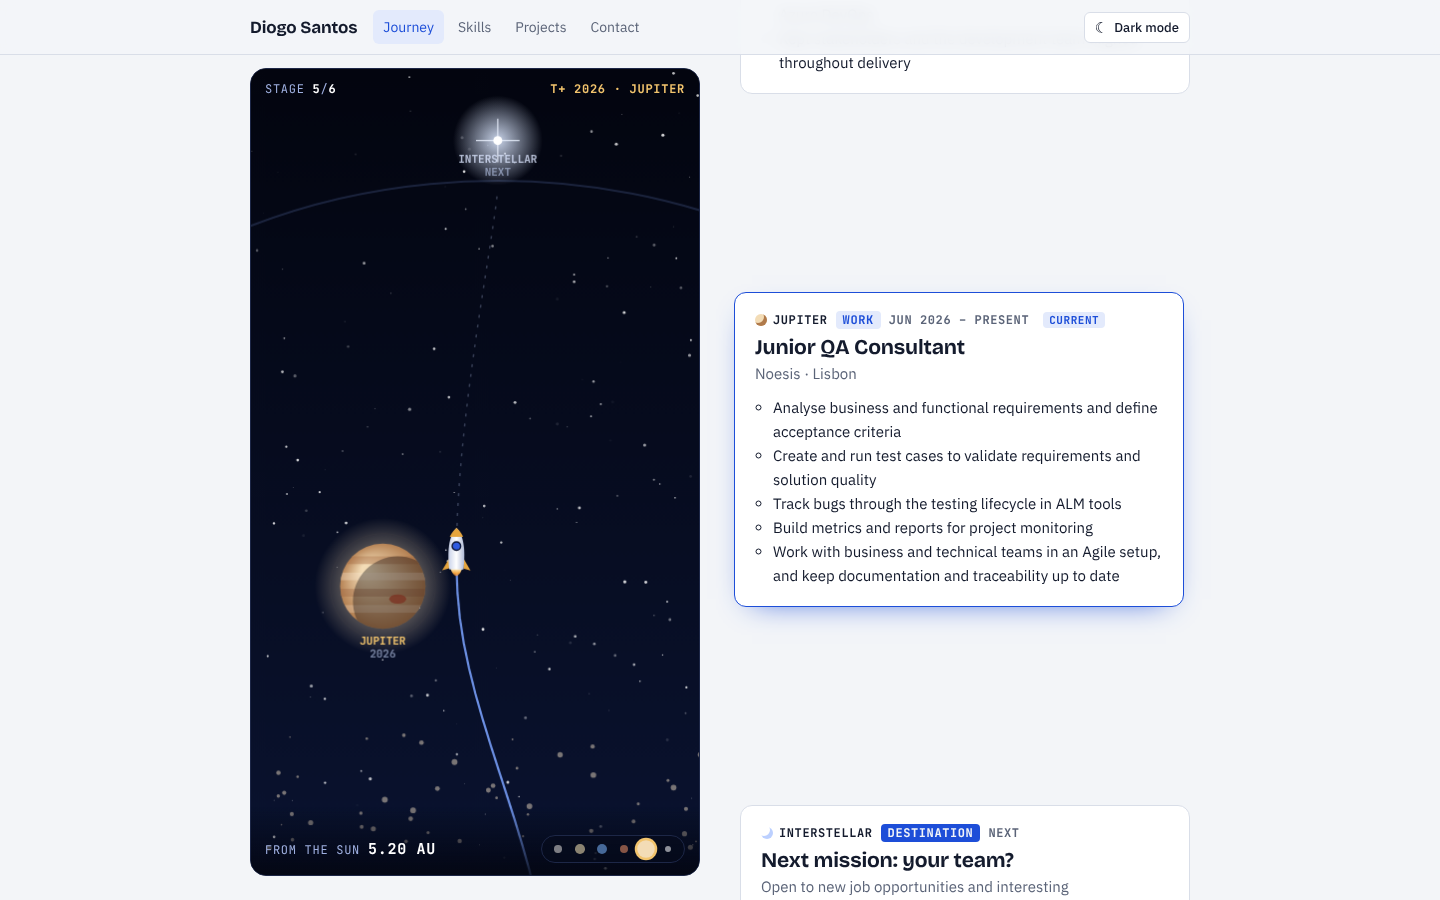
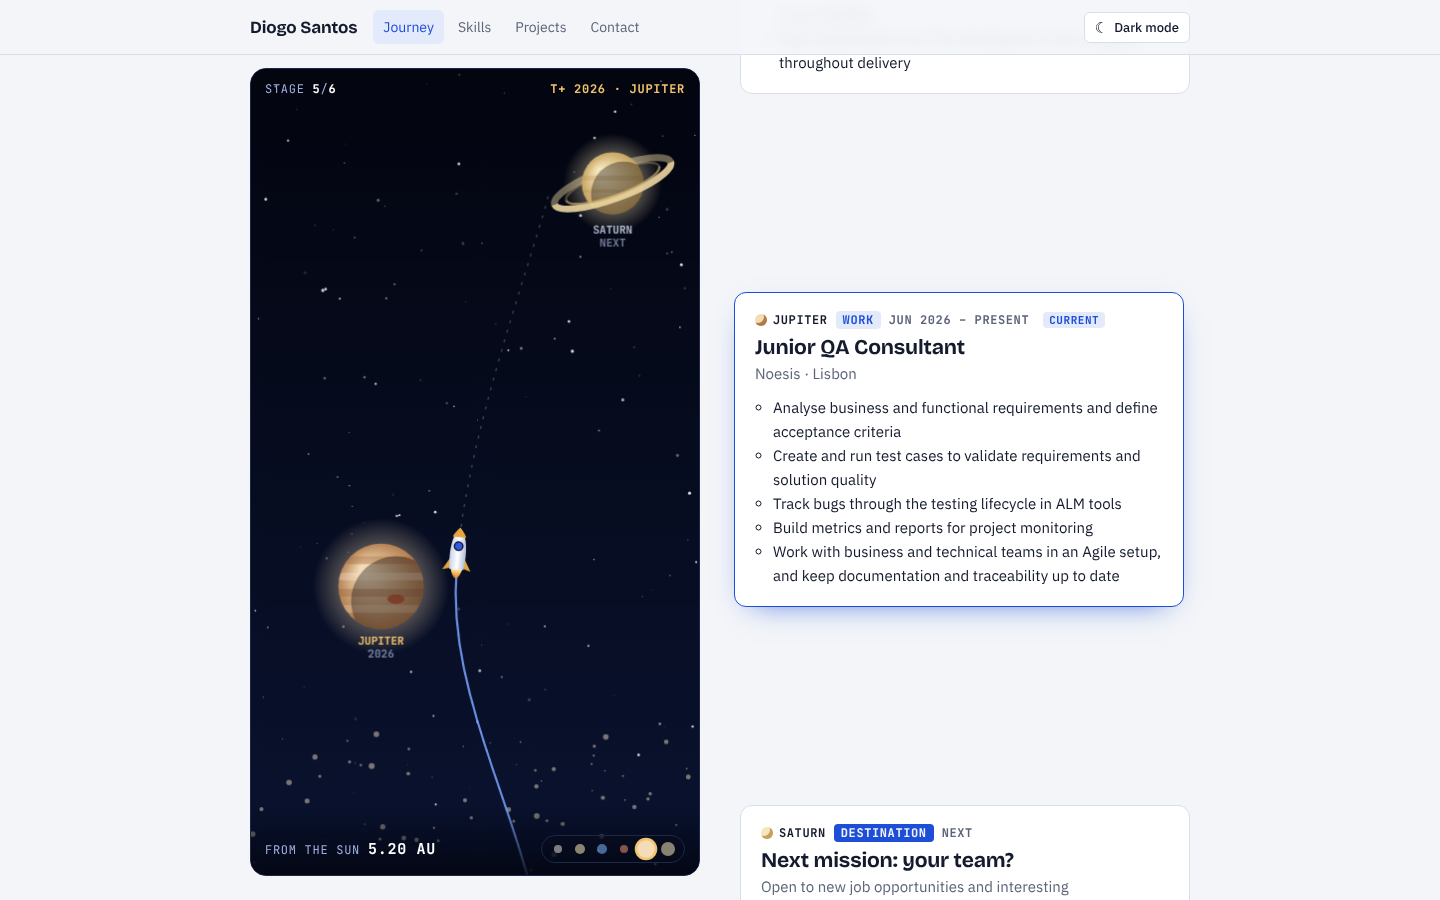
Journey: next mission on Saturn; interstellar space only after Neptune

diff --git a/assets/js/data.js b/assets/js/data.js
@@ -131,15 +131,15 @@ const CV = {
       skills:["HTML & CSS","JavaScript","Automated testing & CI","Git & GitHub"],
       context:"Personal project · 2026",
       shots:[
-        {src:"assets/img/shots/cv-cover.webp?v=20261101", caption:"Interactive CV: a career across the solar system"},
+        {src:"assets/img/shots/cv-cover.webp?v=20261101-2", caption:"Interactive CV: a career across the solar system"},
         {src:"assets/img/shots/cv-hero.webp?v=20261101", caption:"Header with intro, links and quick stats"},
-        {src:"assets/img/shots/cv-journey.webp?v=20261101", caption:"Journey: the rocket reaches Jupiter, my current role as a QA consultant"},
-        {src:"assets/img/shots/cv-journey-next.webp?v=20261101", caption:"Journey: interstellar space, the next mission"},
+        {src:"assets/img/shots/cv-journey.webp?v=20261101-2", caption:"Journey: the rocket reaches Jupiter, my current role as a QA consultant"},
+        {src:"assets/img/shots/cv-journey-next.webp?v=20261101-2", caption:"Journey: Saturn, the next mission"},
         {src:"assets/img/shots/cv-skills.webp?v=20261101", caption:"Skills filtered to Python, highlighting matching work"},
         {src:"assets/img/shots/cv-projects.webp?v=20261101", caption:"Project cards with hover slideshows"},
         {src:"assets/img/shots/cv-gallery.webp?v=20261101", caption:"Screenshot gallery with arrows, thumbnails and swipe"},
         {src:"assets/img/shots/cv-projects-dark.webp?v=20261101", caption:"Dark theme"},
-        {src:"assets/img/shots/cv-phone-journey.webp?v=20261101", caption:"Phone layout with the flight pinned to the top"},
+        {src:"assets/img/shots/cv-phone-journey.webp?v=20261101-2", caption:"Phone layout with the flight pinned to the top"},
       ],
       details:["Canvas animation of a rocket flying from Mercury to interstellar space as you scroll","Skill filters dim projects and milestones that don't use the skill","Screenshot galleries with keyboard and swipe support","Light and dark themes; works from phone to desktop; no frameworks or build step"] },
   ],

diff --git a/index.html b/index.html
@@ -13,7 +13,7 @@
 <meta property="og:title" content="Diogo Santos · Business Analyst & Consultant">
 <meta property="og:description" content="Interactive CV of Diogo Santos, business analyst and consultant in Lisbon. Requirements, BPMN and Microsoft and Salesforce platforms, plus my own software projects.">
 <meta property="og:url" content="https://diogos7.github.io/">
-<meta property="og:image" content="https://diogos7.github.io/assets/img/og-image.png?v=20261101">
+<meta property="og:image" content="https://diogos7.github.io/assets/img/og-image.png?v=20261101-2">
 <meta property="og:image:width" content="1200">
 <meta property="og:image:height" content="627">
 <meta name="twitter:card" content="summary_large_image">
@@ -53,7 +53,7 @@
 <main>
   <section id="journey" class="journey">
     <div class="wrap jhead">
-      <div class="eyebrow">Mission log · Mercury → interstellar</div>
+      <div class="eyebrow" id="routeLabel">Mission log · Mercury → Saturn</div>
       <h2>A trip across the solar system</h2>
       <p class="sub">Each planet is a stop on my path so far: where I studied and where I've worked. My own projects are further down. Scroll to launch the rocket, or tap any planet to jump straight there.</p>
     </div>
@@ -106,7 +106,7 @@
   </div>
 </div>
 <footer><div class="wrap">© 2026 Diogo Santos · Business analyst &amp; consultant · Lisbon, Portugal</div></footer>
-<script src="assets/js/data.js?v=20261101"></script>
-<script src="assets/js/app.js?v=20261101"></script>
+<script src="assets/js/data.js?v=20261101-2"></script>
+<script src="assets/js/app.js?v=20261101-2"></script>
 </body>
 </html>

diff --git a/assets/js/app.js b/assets/js/app.js
@@ -228,7 +228,10 @@ const PLANETS = [
   {n:"Sedna",    au:83.8,r:8,  c:["#ff9a7a","#8f2416"]},
   {n:"Interstellar", au:120, r:6, c:["#ffffff","#bcd0ff"], star:1},
 ];
-const planetOf = i => i >= CV.journey.length-1 ? PLANETS[PLANETS.length-1] : PLANETS[Math.min(i, PLANETS.length-2)];
+/* every stop takes the next planet; interstellar space only comes once the route has passed Neptune */
+const NEPTUNE = PLANETS.findIndex(p=>p.n==="Neptune");
+const planetOf = i => (i >= CV.journey.length-1 && i > NEPTUNE) ? PLANETS[PLANETS.length-1] : PLANETS[Math.min(i, PLANETS.length-2)];
+{ const rl = $("#routeLabel"); if (rl) rl.textContent = "Mission log · Mercury → " + planetOf(CV.journey.length-1).n; }
 const Flight = (() => {
   const cv = $("#sky"), ctx = cv.getContext("2d"), scene = $("#scene");
   let W=0, H=0, S=1, dpr=1, stars=[], rocks=[], parts=[], cards=[], hits=[];
@@ -243,7 +246,7 @@ const Flight = (() => {
     if (!rocks.length) rocks = Array.from({length:70}, () => ({u:Math.random(), v:Math.random(), r:Math.random()*2.2+.6}));
   }
   const SP = () => H*.5;
-  function way(i){ const AX = Math.min(W*.2, 170), k = i >= N()-1 ? 0 : (XS[i%XS.length]||0); return {x:k*AX, y:-i*SP()}; }
+  function way(i){ const AX = Math.min(W*.2, 170), k = planetOf(i).star ? 0 : (XS[i%XS.length]||0); return {x:k*AX, y:-i*SP()}; }
   function planetPos(i){
     const w = way(i), p = planetOf(i), side = w.x >= 0 ? 1 : -1;
     if (p.star) return {x:w.x, y:w.y - 46*S};

diff --git a/README.md b/README.md
@@ -6,7 +6,7 @@
 
 My CV as a website: **[diogos7.github.io](https://diogos7.github.io)**
 
-Scroll and a rocket flies from Mercury out to interstellar space. Every planet is a milestone in my education or career. Pick a skill to see where I've used it, and open any project to browse its screenshots.
+Scroll and a rocket flies out from Mercury, one planet per milestone, towards the next mission. Every planet is a milestone in my education or career. Pick a skill to see where I've used it, and open any project to browse its screenshots.
 
 ![Journey across the solar system](docs/screenshots/journey.png)
 
@@ -49,13 +49,13 @@ docs/screenshots/       screenshots for this README
 
 Almost every change happens in `assets/js/data.js`:
 
-- **New job or course**: add an entry to `journey`, in date order. The planet is assigned automatically from its position (Mercury first, interstellar space always last).
+- **New job or course**: add an entry to `journey`, in date order. The planet is assigned automatically from its position, starting at Mercury.
 - **New project**: add it to `projects`. Give it `demo:"<url>"` to show a Live demo link next to View repo. Projects aren't stops on the journey, which is kept for education and work.
 - **Releases**: a project shipped in versions (like Houston) gets a `releases` list instead of `shots`, newest first. Each release has a `version`, `name`, `date`, `url`, `summary`, `notes` and its own `shots`. The card and journey stop show the latest release, and the gallery lets visitors switch between releases.
 - **Screenshots**: save them as WebP in `assets/img/shots/` (about 1400px wide is plenty) and list them under the project's `shots`.
 - **Skills**: add them to a group in `skills`, with a level from 1 to 5. Use the same name in a project's or milestone's `skills` so the filter finds it.
 
-The route has 13 stops before interstellar space: the eight planets, then Pluto, Haumea, Makemake, Eris and Sedna. Interstellar space is always the last stop, so a new milestone goes just before it and gets the next free planet.
+The last stop is always the open “Next mission: your team?” card, on the next planet out (Saturn today). Each new milestone goes just before it, so the next mission moves one planet further. The route runs Mercury to Neptune, then Pluto, Haumea, Makemake, Eris and Sedna, and interstellar space only appears once the journey has passed Neptune.
 
 After editing any CSS or JS file, change the `?v=` number on its `<link>` or `<script>` tag in `index.html` (today's date works well). That makes visitors' browsers load the new version instead of a saved copy.
 
